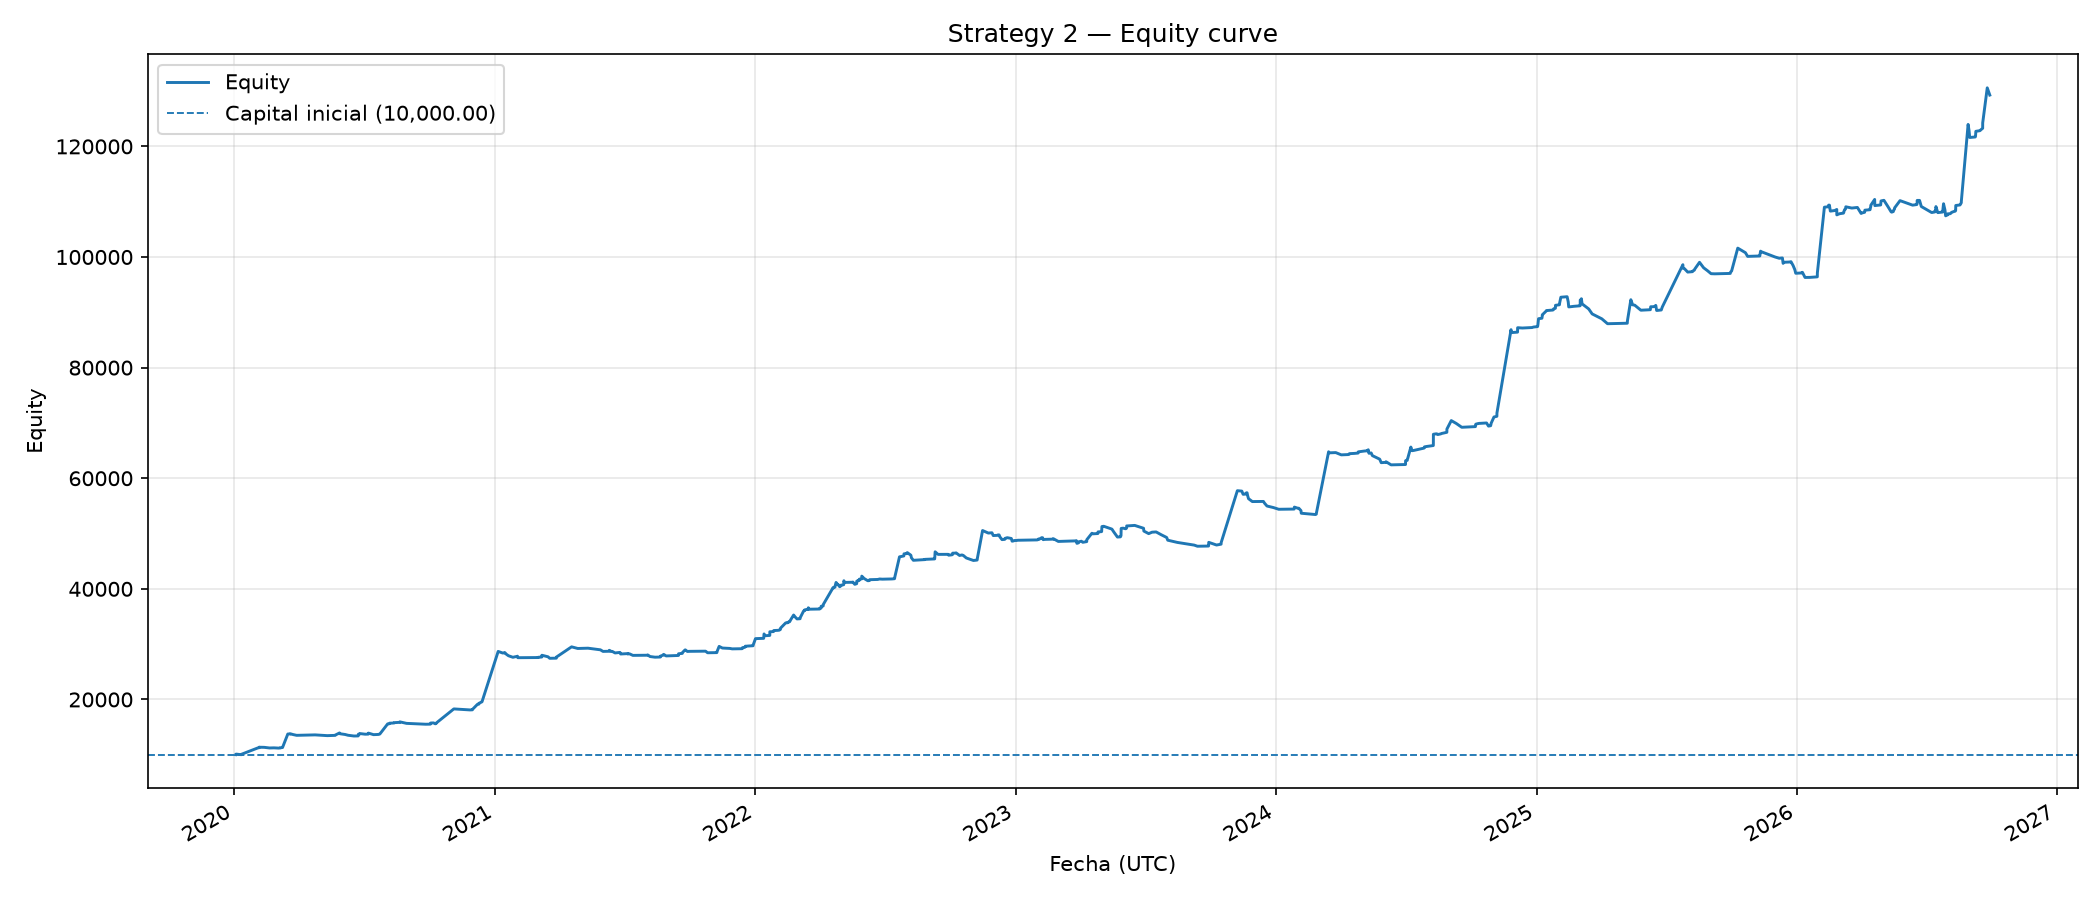
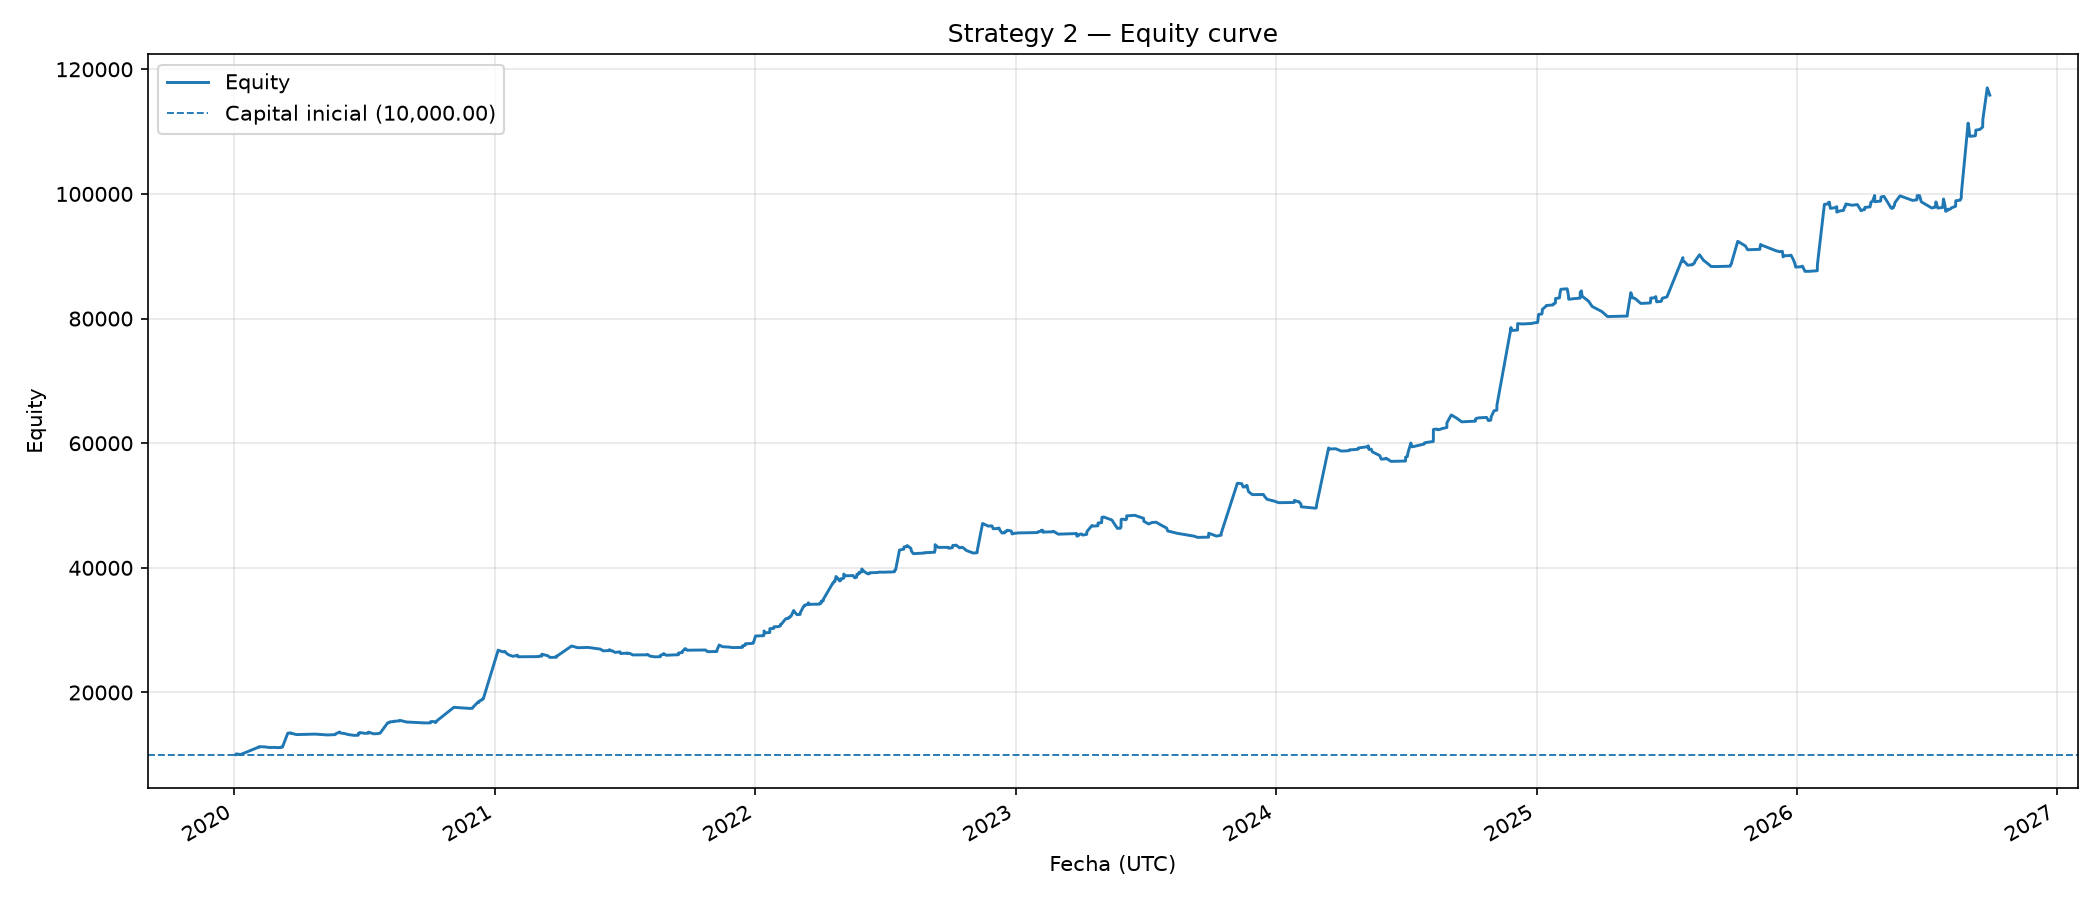
update

diff --git a/strategy/strategy.py b/strategy/strategy.py
@@ -509,6 +509,7 @@ class Backtester:
             partial2_done=False,
             partial3_done=False,
             partial4_done=False,
+            partial5_done=False,
             entry_bar_index=self._bar_index,
         )
         self.opened.append({
@@ -704,6 +705,16 @@ class Backtester:
         pos_after = pos
         # Objetivos de mayor distancia primero para conservar un solo parcial
         # por vela cuando el rango alcanza varios niveles.
+        if cfg.partial_tp5_r > 0 and not pos.partial5_done:
+            trigger5 = pos.entry_price + pos.side * cfg.partial_tp5_r * risk_unit
+            hit5 = self.h[i] >= trigger5 if pos.side == 1 else self.l[i] <= trigger5
+            if hit5:
+                fill5 = max(trigger5, self.o[i]) if pos.side == 1 else min(trigger5, self.o[i])
+                self.close_position(cfg.partial_tp5_pct, fill5, self.times[i], f"PARTIAL_TP5_{cfg.partial_tp5_r:g}R")
+                pos_after = self.position
+                if pos_after is not None:
+                    pos_after.partial5_done = True
+                return
         if cfg.partial_tp4_r > 0 and not pos.partial4_done:
             trigger4 = pos.entry_price + pos.side * cfg.partial_tp4_r * risk_unit
             hit4 = self.h[i] >= trigger4 if pos.side == 1 else self.l[i] <= trigger4
@@ -1040,6 +1051,8 @@ def parse_args():
     p.add_argument("--partial-tp3-pct", type=float, default=d.partial_tp3_pct)
     p.add_argument("--partial-tp4-r", type=float, default=d.partial_tp4_r)
     p.add_argument("--partial-tp4-pct", type=float, default=d.partial_tp4_pct)
+    p.add_argument("--partial-tp5-r", type=float, default=d.partial_tp5_r)
+    p.add_argument("--partial-tp5-pct", type=float, default=d.partial_tp5_pct)
     p.add_argument("--tp3-ema-slow-penetration-pct", type=float,
                    default=d.tp3_ema_slow_penetration_pct,
                    help="Ruptura porcentual de EMA lenta requerida para cerrar SHORT tras TP3 (default 0.1%%).")
@@ -1126,6 +1139,7 @@ def config_from_args(a) -> Config:
         partial_tp2_r=a.partial_tp2_r, partial_tp2_pct=a.partial_tp2_pct,
         partial_tp3_r=a.partial_tp3_r, partial_tp3_pct=a.partial_tp3_pct,
         partial_tp4_r=a.partial_tp4_r, partial_tp4_pct=a.partial_tp4_pct,
+        partial_tp5_r=a.partial_tp5_r, partial_tp5_pct=a.partial_tp5_pct,
         tp3_ema_slow_penetration_pct=a.tp3_ema_slow_penetration_pct,
         move_stop_to_breakeven=a.breakeven_stop,
         trend_timeframe=a.trend_timeframe,

diff --git a/tests/test_partial_tp4.py b/tests/test_partial_tp4.py
@@ -6,13 +6,13 @@ from strategy.models import Position
 from strategy.strategy import Backtester
 
 
-def make_engine(side):
+def make_engine(side, *, reach_tp5=False):
     index = pd.date_range("2026-01-01", periods=2, freq="30min", tz="UTC")
     bars = pd.DataFrame(
         {
             "open": [100.0, 100.0],
-            "high": [100.0, 134.0],
-            "low": [100.0, 66.0],
+            "high": [100.0, 142.0 if reach_tp5 else 134.0],
+            "low": [100.0, 58.0 if reach_tp5 else 66.0],
             "close": [100.0, 100.0],
             "volume": [1.0, 1.0],
         },
@@ -75,3 +75,30 @@ def test_tp4_defaults_and_ordering_validation():
         Config(partial_tp4_r=0, partial_tp4_pct=10)
     with pytest.raises(ValueError, match="mayor que TP3"):
         Config(partial_tp4_r=2.5)
+
+
+@pytest.mark.parametrize("side", [1, -1])
+def test_tp5_closes_configured_percent_before_nearer_targets(side):
+    engine = make_engine(side, reach_tp5=True)
+
+    engine._manage(1)
+
+    trade = engine.trades[0]
+    assert trade.reason == "PARTIAL_TP5_4R"
+    assert trade.exit_price == (140.0 if side == 1 else 60.0)
+    assert trade.quantity == pytest.approx(0.1)
+    assert engine.position is not None
+    assert engine.position.partial5_done
+    assert not engine.position.partial4_done
+
+
+def test_tp5_defaults_and_ordering_validation():
+    config = Config()
+    assert config.partial_tp5_r == 4.0
+    assert config.partial_tp5_pct == 10.0
+    assert Config(partial_tp5_r=0, partial_tp5_pct=0).partial_tp5_r == 0
+
+    with pytest.raises(ValueError, match="take-profit parcial 5"):
+        Config(partial_tp5_r=0, partial_tp5_pct=10)
+    with pytest.raises(ValueError, match="mayor que TP4"):
+        Config(partial_tp5_r=3.25)

diff --git a/strategy/config.py b/strategy/config.py
@@ -142,6 +142,9 @@ class Config:
     # Fourth partial take-profit, at a larger distance than TP3.
     partial_tp4_r: float = 3.25
     partial_tp4_pct: float = 10.0
+    # Fifth partial take-profit, at a larger distance than TP4.
+    partial_tp5_r: float = 4.0
+    partial_tp5_pct: float = 10.0
     # Tras TP3, el SHORT restante sale si el precio supera EMA lenta por este %.
     # 0 = basta con tocarla.
     tp3_ema_slow_penetration_pct: float = 1.25
@@ -333,6 +336,11 @@ class Config:
                 raise ValueError("Configuración de take-profit parcial 4 inválida.")
             if self.partial_tp4_r <= self.partial_tp3_r:
                 raise ValueError("partial_tp4_r debe ser mayor que TP3.")
+        if self.partial_tp5_r > 0 or self.partial_tp5_pct > 0:
+            if self.partial_tp5_r <= 0 or not 0 < self.partial_tp5_pct <= 100:
+                raise ValueError("Configuración de take-profit parcial 5 inválida.")
+            if self.partial_tp5_r <= self.partial_tp4_r:
+                raise ValueError("partial_tp5_r debe ser mayor que TP4.")
         if not (self.allow_long or self.allow_short):
             raise ValueError("Debe habilitarse LONG, SHORT o ambos.")
         if self.streak_trend_only and pd.Timedelta(self.trend_timeframe) <= pd.Timedelta(0):

diff --git a/strategy/report.py b/strategy/report.py
@@ -667,6 +667,9 @@ def build_backtest_figure(
         if cfg.partial_tp4_r > 0 and cfg.stop_loss_pct > 0:
             _level_trace(f"TP4 {cfg.partial_tp4_r:g}R", TARGET_COLOR, "dashdot",
                          lambda s, sign: s["entry_price"] * (1 + sign * cfg.partial_tp4_r * cfg.stop_loss_pct))
+        if cfg.partial_tp5_r > 0 and cfg.stop_loss_pct > 0:
+            _level_trace(f"TP5 {cfg.partial_tp5_r:g}R", TARGET_COLOR, "longdash",
+                         lambda s, sign: s["entry_price"] * (1 + sign * cfg.partial_tp5_r * cfg.stop_loss_pct))
         if cfg.move_stop_to_breakeven:
             _level_trace("breakeven", BREAKEVEN_COLOR, "dot", lambda s, sign: s["entry_price"])
 

diff --git a/live/bot.py b/live/bot.py
@@ -253,6 +253,8 @@ _CONFIG_ENV = {
     "partial_tp3_pct": ("STRATEGY_PARTIAL_TP3_PCT", env_float),
     "partial_tp4_r": ("STRATEGY_PARTIAL_TP4_R", env_float),
     "partial_tp4_pct": ("STRATEGY_PARTIAL_TP4_PCT", env_float),
+    "partial_tp5_r": ("STRATEGY_PARTIAL_TP5_R", env_float),
+    "partial_tp5_pct": ("STRATEGY_PARTIAL_TP5_PCT", env_float),
     "tp3_ema_slow_penetration_pct": ("STRATEGY_TP3_EMA_SLOW_PENETRATION_PCT", env_float),
     "move_stop_to_breakeven": ("STRATEGY_MOVE_STOP_TO_BREAKEVEN", env_bool),
     # Salidas: las usa `prepare_exits`.

diff --git a/strategy/models.py b/strategy/models.py
@@ -20,6 +20,7 @@ class Position:
     entry_bar_index: int = -1
     partial3_done: bool = False
     partial4_done: bool = False
+    partial5_done: bool = False
 
 
 @dataclass
